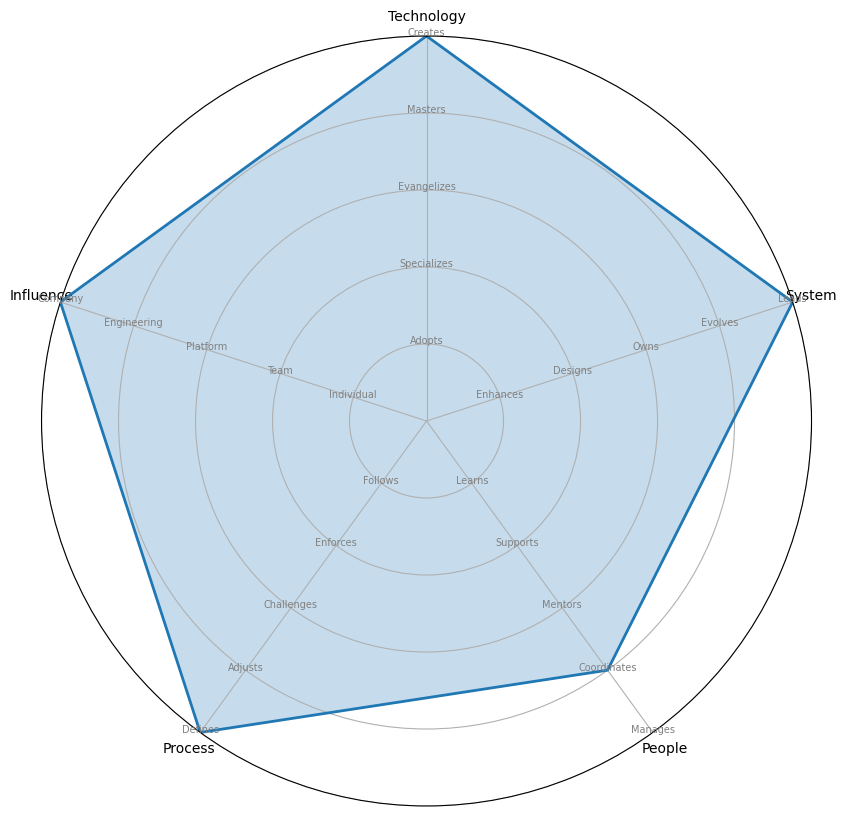
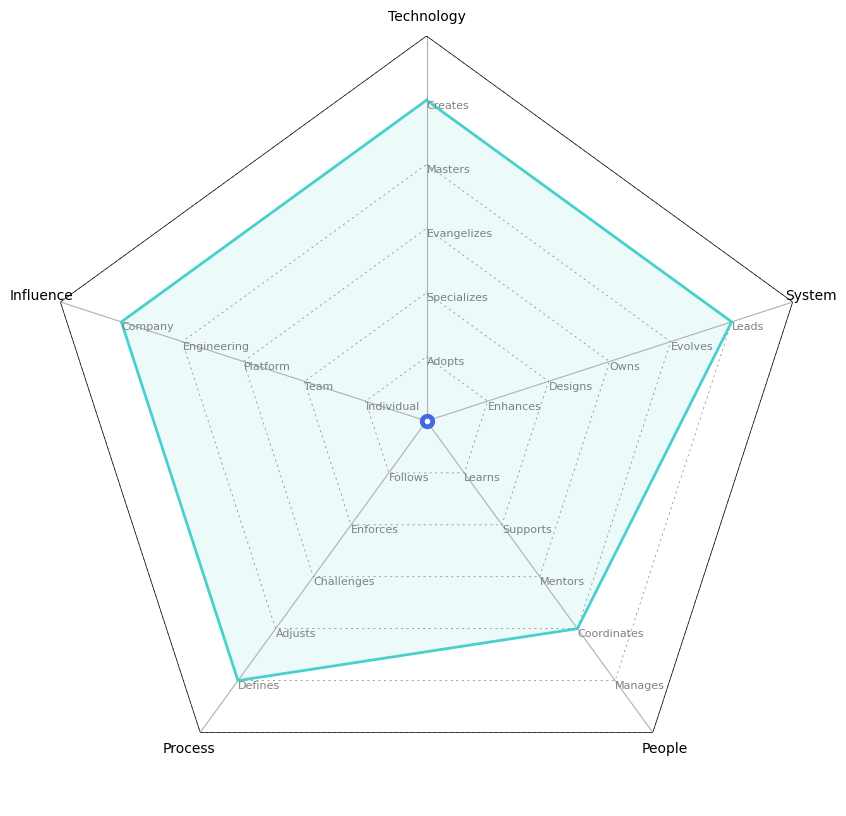
refactored

diff --git a/main.py b/main.py
@@ -3,49 +3,74 @@ import numpy as np
 
 
 class RadarChart:
-    def __init__(self, categories, levels, yticks_labels=None):
+    def __init__(self, categories, levels, yticks_labels=None, area_color='red', line_style='dotted'):
         self.categories = categories
         self.levels = levels
         self.num_vars = len(categories)
-        self.yticks_labels = yticks_labels if yticks_labels else {}
+        self.yticks_labels = yticks_labels or {}
+        self.area_color = area_color
+        self.line_style = line_style
 
-    def create_chart(self, output_filename):
-        # Calculate the angle for each category
-        angles = [n / float(self.num_vars) * 2 * np.pi for n in range(self.num_vars)]
-        angles += angles[:1]  # Complete the loop
+    def _calculate_angles(self):
+        """Calculate angles for radar chart categories."""
+        return np.linspace(0, 2 * np.pi, self.num_vars, endpoint=False).tolist() + [0]
 
-        # Initiate the spider plot
-        fig, ax = plt.subplots(figsize=(10, 10), subplot_kw=dict(polar=True))
-
-        # Rotate the chart so that the first axis is at the top
+    def _setup_chart(self, ax):
+        """Set up the radar chart, including axes and gridlines."""
+        angles = self._calculate_angles()
         ax.set_theta_offset(np.pi / 2)
         ax.set_theta_direction(-1)
 
-        # Draw one axe per variable and add labels
-        plt.xticks(angles[:-1], self.categories)
+        # Draw axes labels
+        ax.set_xticks(angles[:-1])
+        ax.set_xticklabels(self.categories, size=10, color='black', fontweight='roman')
 
-        # Draw ylabels
-        ax.set_rlabel_position(0)
-        plt.yticks([1, 2, 3, 4, 5], ["", "", "", "", ""], color="grey", size=7)
-
-        plt.ylim(0, 5)
-
-        # Plot data and fill with color
-        values = [self.levels[cat] for cat in self.categories] + [self.levels[self.categories[0]]]
-        ax.plot(angles, values, linewidth=2, linestyle='solid')
-        ax.fill(angles, values, alpha=0.25)
-
+        # Configure y-ticks
+        yticks = np.arange(1, 7)
+        yticklabels = [self.yticks_labels.get(ytick, '') for ytick in yticks]
+        ax.set_yticks(yticks)
+        ax.set_yticklabels(yticklabels)
+        ax.set_ylim(0, 6)
         # Add custom y-tick labels if provided
         if self.yticks_labels:
             for cat, angle in zip(self.categories, angles):
                 if cat in self.yticks_labels:
                     for level, label in enumerate(self.yticks_labels[cat], start=1):
-                        ax.text(angle, level, label, horizontalalignment='center', size=7, color='grey')
+                        ax.text(angle,
+                                level,
+                                label,
+                                horizontalalignment='left',
+                                verticalalignment='top',
+                                size=8,
+                                color='grey',
+                                fontweight='roman',
+                                )
 
-        # Add a title
-        # plt.title('Data Science Ladder', size=20, color="black", y=1.1)
-        # plt.show()
-        # Save the figure
+        # Remove the default grid and outer circle
+        ax.yaxis.grid(False)
+        ax.spines['polar'].set_visible(False)
+
+        # Custom dotted lines
+        for ytick in yticks:
+            ax.plot(angles, [ytick] * len(angles), linestyle=(0, (3, 5)), color="grey", linewidth=0.5)
+        ax.plot(angles, [yticks[-1]] * len(angles), linestyle=(0, (1, 0)), color="black", linewidth=0.5)
+
+    def _plot_data(self, ax, angles):
+        """Plot the data on the radar chart."""
+        values = [self.levels[cat] for cat in self.categories] + [self.levels[self.categories[0]]]
+        ax.plot(angles, values, linewidth=2, linestyle='solid', color=self.area_color)
+        ax.fill(angles, values, color=self.area_color, alpha=0.1)
+
+    def create_chart(self, output_filename):
+        fig, ax = plt.subplots(figsize=(10, 10), subplot_kw=dict(polar=True))
+        self._setup_chart(ax)
+        angles = self._calculate_angles()
+        self._plot_data(ax, angles)
+
+        # Add bot at the center
+        ax.plot(0, 0, 'o', markersize=10, color='royalblue')
+        ax.plot(0, 0, 'o', markersize=3, color='white')
+
         plt.savefig(output_filename, bbox_inches='tight')
         plt.close()
 
@@ -475,10 +500,17 @@ for job, val in ds_level_stats.items():
 
 
 for job, val in ds_level_stats.items():
+    if job == 'Data Scientist':
+        area_color = 'orange'
+    elif job == 'Tech Lead':
+        area_color = 'mediumturquoise'
+    else:
+        area_color = 'crimson'
+
     for level, stats in val.items():
         levels = stats
         # Create a RadarChart instance with the categories, levels, and custom y-ticks
-        radar_chart = RadarChart(categories, levels, yticks_labels)
+        radar_chart = RadarChart(categories, levels, yticks_labels, area_color)
         # Generate and save the chart as a PNG file
         position = f'{job} {level}'
         pic_file_loc = f'charts/{position}.png'
